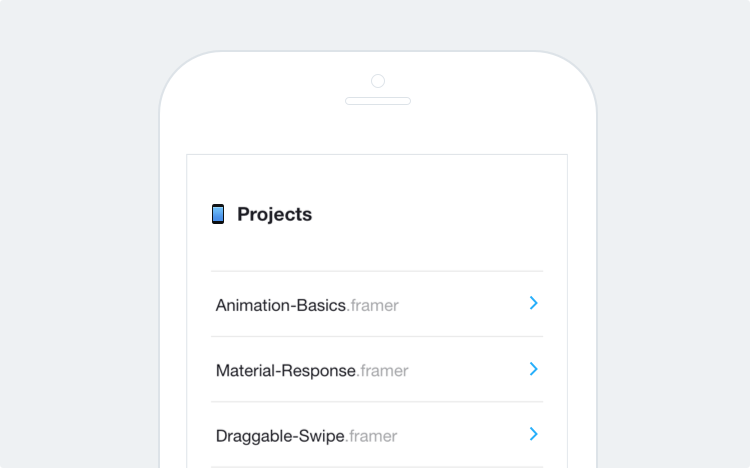
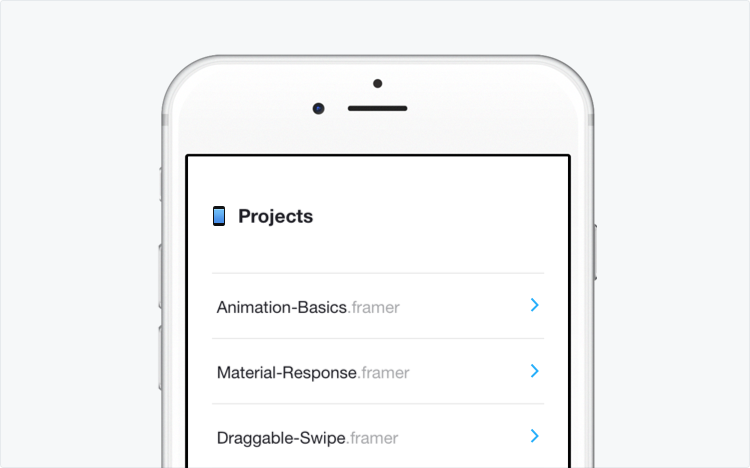
Mirror 2

Changed region(s): [[0.2147, 0.1496, 0.7973, 1.0], [0.2453, 0.0897, 0.7667, 0.2393], [0.3987, 0.2094, 0.4293, 0.2393]]

diff --git a/pages/learn/mirror/preview-on-mobile/index.html b/pages/learn/mirror/preview-on-mobile/index.html
@@ -19,16 +19,15 @@
 {% filter markdown %}
 ### Preview on Mobile
 
-If you've sent yourself the link to your prototype via email or text, opening it on your mobile device should automatically launch a web browser with your prototype. 
+If you've sent yourself the link to your prototype via email or text, opening it on your mobile device automatically launches the browser with your prototype. To see all of your active documents, simply remove your project name from the URL to get to the root of the server.
 
-**On iOS**, you can add your project to your Homescreen by tapping the Share button and then **"Add to Home Screen"**. This allows you to view your prototypes without the browser chrome of Safari.
+<img class="ss-mirror-iphone" src="/static/images/learn/ss-mirror-iphone.png" srcset="/static/images/learn/ss-mirror-iphone@2x.png 2x">
 
+<p></p>
 
-<img src="/static/images/learn/ss-mirror-iphone.png" srcset="/static/images/learn/ss-mirror-iphone@2x.png 2x">
+<img class="inline-left icon-mirror" src="/static/images/learn/icon-mirror-ios.png" srcset="/static/images/learn/icon-mirror-ios@2x.png 2x">
 
-To see all of your active documents, go to the root of the webserver. Simply remove your project name from the URL to get there.
-
-
+**On iOS**, you can add your project to your Homescreen by tapping the Share button and then **"Add to Home Screen"**. This allows you to view your prototypes without browser chrome.
 
 ---
 

diff --git a/static/css/pages/subpages.scss b/static/css/pages/subpages.scss
@@ -59,6 +59,7 @@ a[name] {
 }
 .align-right p {
 	max-width: 580px;
+	width: 100%;
 	text-align: left;
 }
 // Clearfix wrapper
@@ -219,6 +220,17 @@ a[name] {
 .inline-left {
 	float: left;
 	margin-right: 60px;
+}
+.icon-mirror {
+	margin-right:$space40;
+	position: relative;
+	top:4px;
+}
+.align-right img + p {
+	max-width: 660px;
+}
+.ss-mirror-iphone {
+	margin-bottom: $space48;
 }
 @media screen and (max-width:1020px) {
 	.content-inner {
